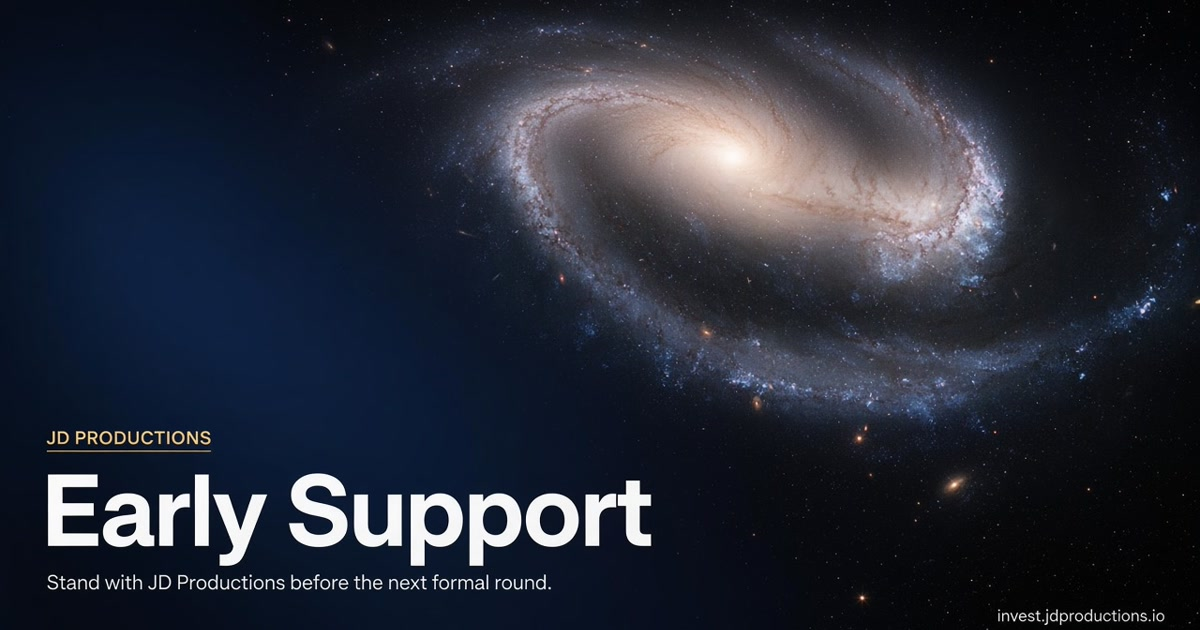
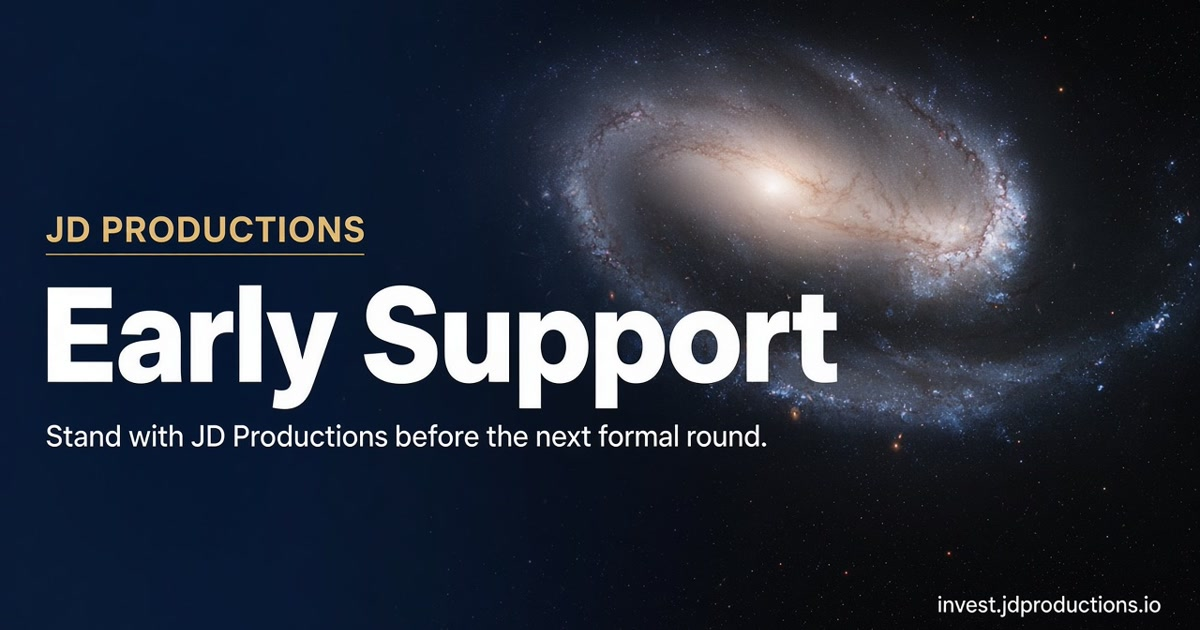
feat(invest): host-aware Early Support URL card (variant C)
Ship Open Graph / Twitter meta for invest.jdproductions.io via invest.html
and host rewrites, with the type-hero galaxy OG image. Accounts keeps its
own OG card. Early Support layout sets the matching document title.

diff --git a/invest.html b/invest.html
@@ -6,52 +6,52 @@
     <meta name="viewport" content="width=device-width, initial-scale=1.0" />
     <meta
       name="description"
-      content="JD Productions Accounts — company accounts gateway and Early Support for JD Productions Inc."
+      content="Stand with JD Productions before the next formal round."
     />
     <meta name="author" content="JD Productions Inc." />
     <meta name="theme-color" content="#002244" />
-    <title>JD Productions Accounts</title>
-    <link rel="canonical" href="https://accounts.jdproductions.io/" />
+    <title>Early Support · JD Productions</title>
+    <link rel="canonical" href="https://invest.jdproductions.io/" />
 
-    <!-- Open Graph — accounts.jdproductions.io -->
+    <!-- Open Graph — invest.jdproductions.io URL card -->
     <meta property="og:type" content="website" />
-    <meta property="og:url" content="https://accounts.jdproductions.io/" />
-    <meta property="og:site_name" content="JD Productions Accounts" />
-    <meta property="og:title" content="JD Productions Accounts" />
+    <meta property="og:url" content="https://invest.jdproductions.io/" />
+    <meta property="og:site_name" content="JD Productions" />
+    <meta property="og:title" content="Early Support · JD Productions" />
     <meta
       property="og:description"
-      content="JD Productions Accounts — company accounts gateway and Early Support for JD Productions Inc."
+      content="Stand with JD Productions before the next formal round."
     />
     <meta
       property="og:image"
-      content="https://accounts.jdproductions.io/og-accounts.jpg"
+      content="https://invest.jdproductions.io/og-early-support.jpg"
     />
     <meta
       property="og:image:secure_url"
-      content="https://accounts.jdproductions.io/og-accounts.jpg"
+      content="https://invest.jdproductions.io/og-early-support.jpg"
     />
     <meta property="og:image:width" content="1200" />
     <meta property="og:image:height" content="630" />
     <meta
       property="og:image:alt"
-      content="JD Productions Accounts — company accounts gateway"
+      content="Early Support — stand with JD Productions before the next formal round"
     />
     <meta property="og:locale" content="en_US" />
 
     <!-- Twitter / X -->
     <meta name="twitter:card" content="summary_large_image" />
-    <meta name="twitter:title" content="JD Productions Accounts" />
+    <meta name="twitter:title" content="Early Support · JD Productions" />
     <meta
       name="twitter:description"
-      content="JD Productions Accounts — company accounts gateway and Early Support for JD Productions Inc."
+      content="Stand with JD Productions before the next formal round."
     />
     <meta
       name="twitter:image"
-      content="https://accounts.jdproductions.io/og-accounts.jpg"
+      content="https://invest.jdproductions.io/og-early-support.jpg"
     />
     <meta
       name="twitter:image:alt"
-      content="JD Productions Accounts — company accounts gateway"
+      content="Early Support — stand with JD Productions before the next formal round"
     />
 
     <link rel="preconnect" href="https://fonts.googleapis.com" />

diff --git a/src/utils/site-meta.js b/src/utils/site-meta.js
@@ -1,0 +1,38 @@
+/**
+ * Static URL-card / document titles for Accounts vs invest hosts.
+ * Crawler meta must live in index.html / invest.html — this module is for
+ * browser document.title and shared copy constants.
+ */
+
+import { LANDING_HEADLINE, LANDING_SUBHEAD } from "../../lib/early-support/copy.js";
+import { isInvestHost } from "./invest-host.js";
+
+export const ACCOUNTS_SITE = Object.freeze({
+  title: "JD Productions Accounts",
+  description:
+    "JD Productions Accounts — company accounts gateway and Early Support for JD Productions Inc.",
+  url: "https://accounts.jdproductions.io/",
+  imagePath: "/og-accounts.jpg",
+  imageAlt: "JD Productions Accounts — company accounts gateway",
+  twitterCard: "summary_large_image",
+});
+
+export const INVEST_SITE = Object.freeze({
+  title: `${LANDING_HEADLINE} · JD Productions`,
+  description: LANDING_SUBHEAD,
+  url: "https://invest.jdproductions.io/",
+  imagePath: "/og-early-support.jpg",
+  imageAlt:
+    "Early Support — stand with JD Productions before the next formal round",
+  twitterCard: "summary_large_image",
+  siteName: "JD Productions",
+});
+
+/** Browser tab title for Early Support surfaces. */
+export const EARLY_SUPPORT_DOCUMENT_TITLE = INVEST_SITE.title;
+
+export const ACCOUNTS_DOCUMENT_TITLE = ACCOUNTS_SITE.title;
+
+export function documentTitleForHost(hostname) {
+  return isInvestHost(hostname) ? INVEST_SITE.title : ACCOUNTS_SITE.title;
+}

diff --git a/tests/site-meta.test.js b/tests/site-meta.test.js
@@ -1,0 +1,39 @@
+import assert from "node:assert/strict";
+import test from "node:test";
+
+import { LANDING_HEADLINE, LANDING_SUBHEAD } from "../lib/early-support/copy.js";
+import {
+  ACCOUNTS_SITE,
+  EARLY_SUPPORT_DOCUMENT_TITLE,
+  INVEST_SITE,
+  documentTitleForHost,
+} from "../src/utils/site-meta.js";
+
+test("invest URL card copy matches official Early Support wording", () => {
+  assert.equal(INVEST_SITE.title, `${LANDING_HEADLINE} · JD Productions`);
+  assert.equal(INVEST_SITE.description, LANDING_SUBHEAD);
+  assert.equal(INVEST_SITE.url, "https://invest.jdproductions.io/");
+  assert.equal(INVEST_SITE.imagePath, "/og-early-support.jpg");
+  assert.equal(EARLY_SUPPORT_DOCUMENT_TITLE, INVEST_SITE.title);
+});
+
+test("accounts URL card keeps Accounts branding", () => {
+  assert.match(ACCOUNTS_SITE.title, /Accounts/);
+  assert.equal(ACCOUNTS_SITE.url, "https://accounts.jdproductions.io/");
+  assert.equal(ACCOUNTS_SITE.imagePath, "/og-accounts.jpg");
+});
+
+test("documentTitleForHost is host-aware", () => {
+  assert.equal(
+    documentTitleForHost("invest.jdproductions.io"),
+    INVEST_SITE.title,
+  );
+  assert.equal(
+    documentTitleForHost("www.invest.jdproductions.io"),
+    INVEST_SITE.title,
+  );
+  assert.equal(
+    documentTitleForHost("accounts.jdproductions.io"),
+    ACCOUNTS_SITE.title,
+  );
+});

diff --git a/src/layouts/EarlySupportLayout/index.jsx b/src/layouts/EarlySupportLayout/index.jsx
@@ -20,6 +20,10 @@ import {
   EARLY_SUPPORT_AFTER_SIGN_OUT_PATH,
   earlySupportNavChrome,
 } from "@/utils/early-support-nav";
+import {
+  ACCOUNTS_DOCUMENT_TITLE,
+  EARLY_SUPPORT_DOCUMENT_TITLE,
+} from "@/utils/site-meta";
 
 export default function EarlySupportLayout({ children }) {
   const [scrolled, setScrolled] = useState(false);
@@ -43,6 +47,14 @@ export default function EarlySupportLayout({ children }) {
       setSigningOut(false);
     }
   };
+
+  useEffect(() => {
+    const previous = document.title;
+    document.title = EARLY_SUPPORT_DOCUMENT_TITLE;
+    return () => {
+      document.title = previous || ACCOUNTS_DOCUMENT_TITLE;
+    };
+  }, []);
 
   useEffect(() => {
     const onScroll = () => setScrolled(window.scrollY > 12);
